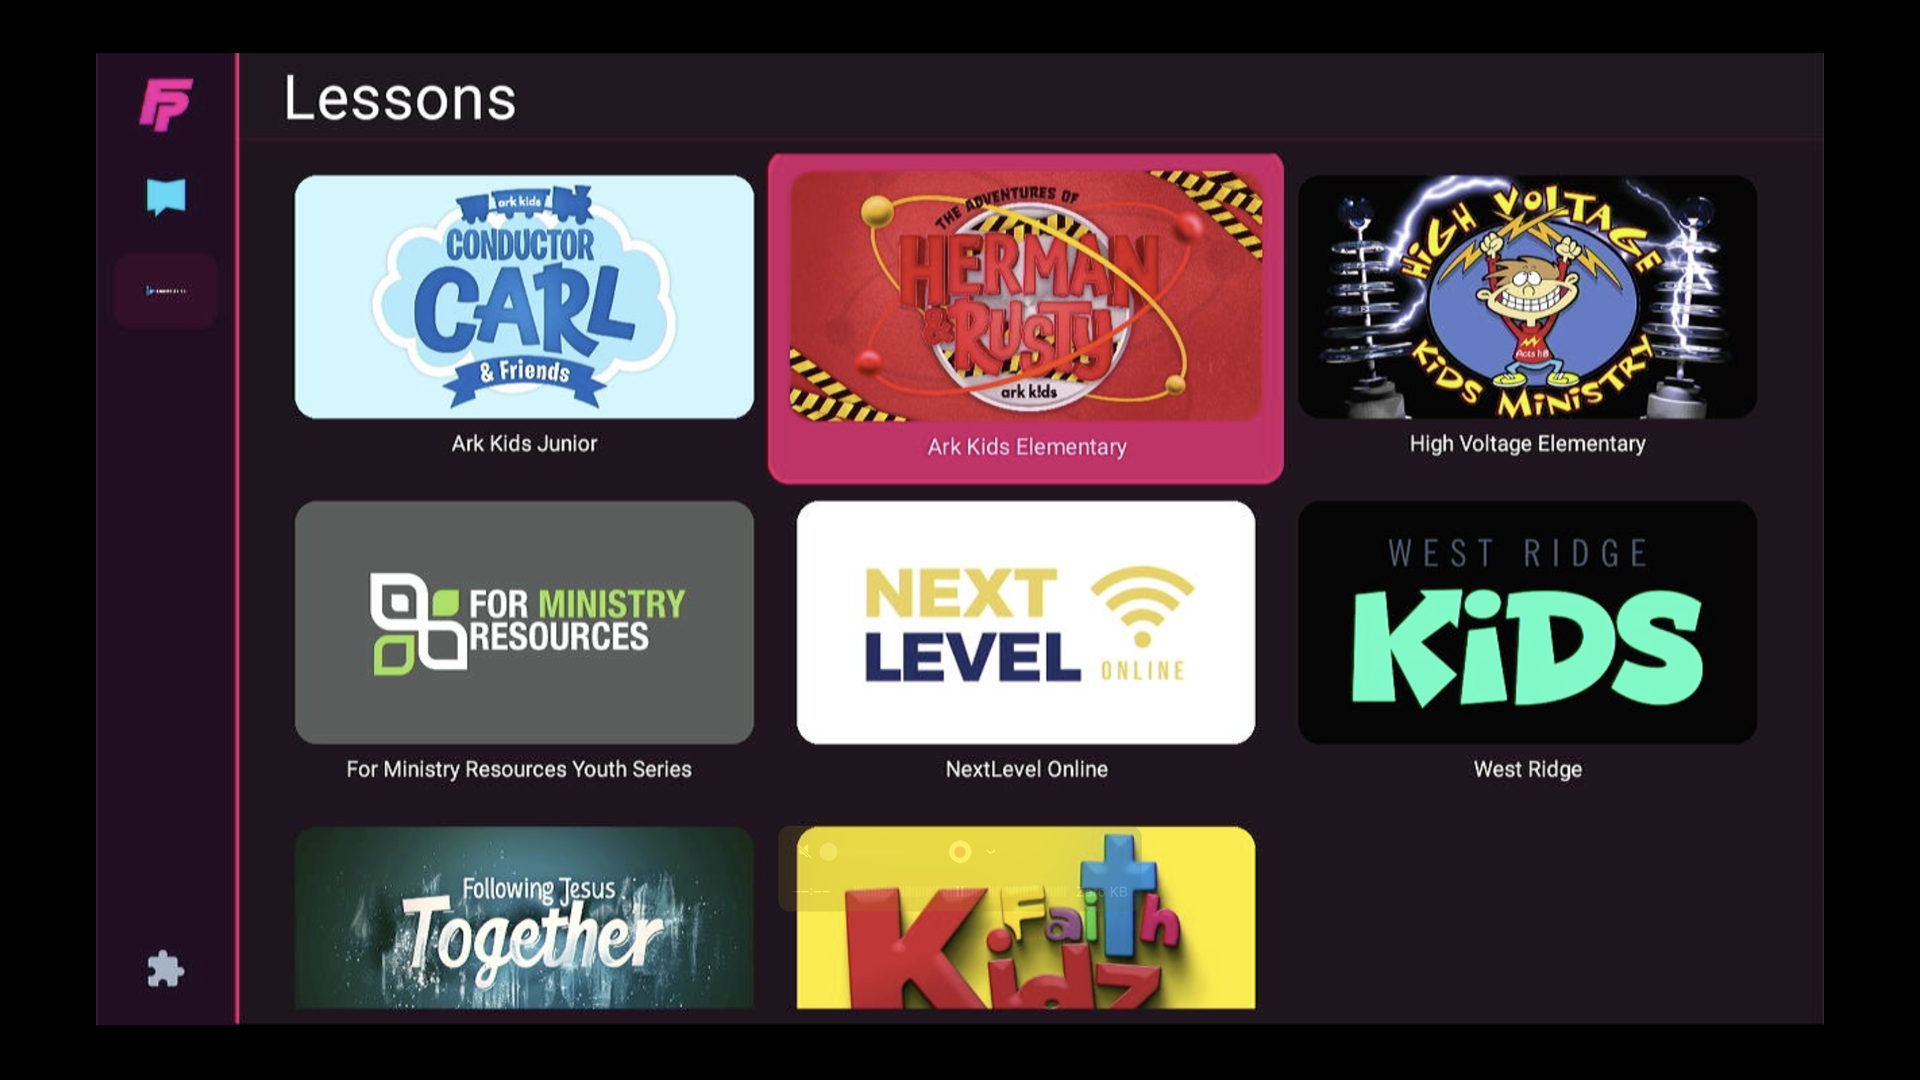
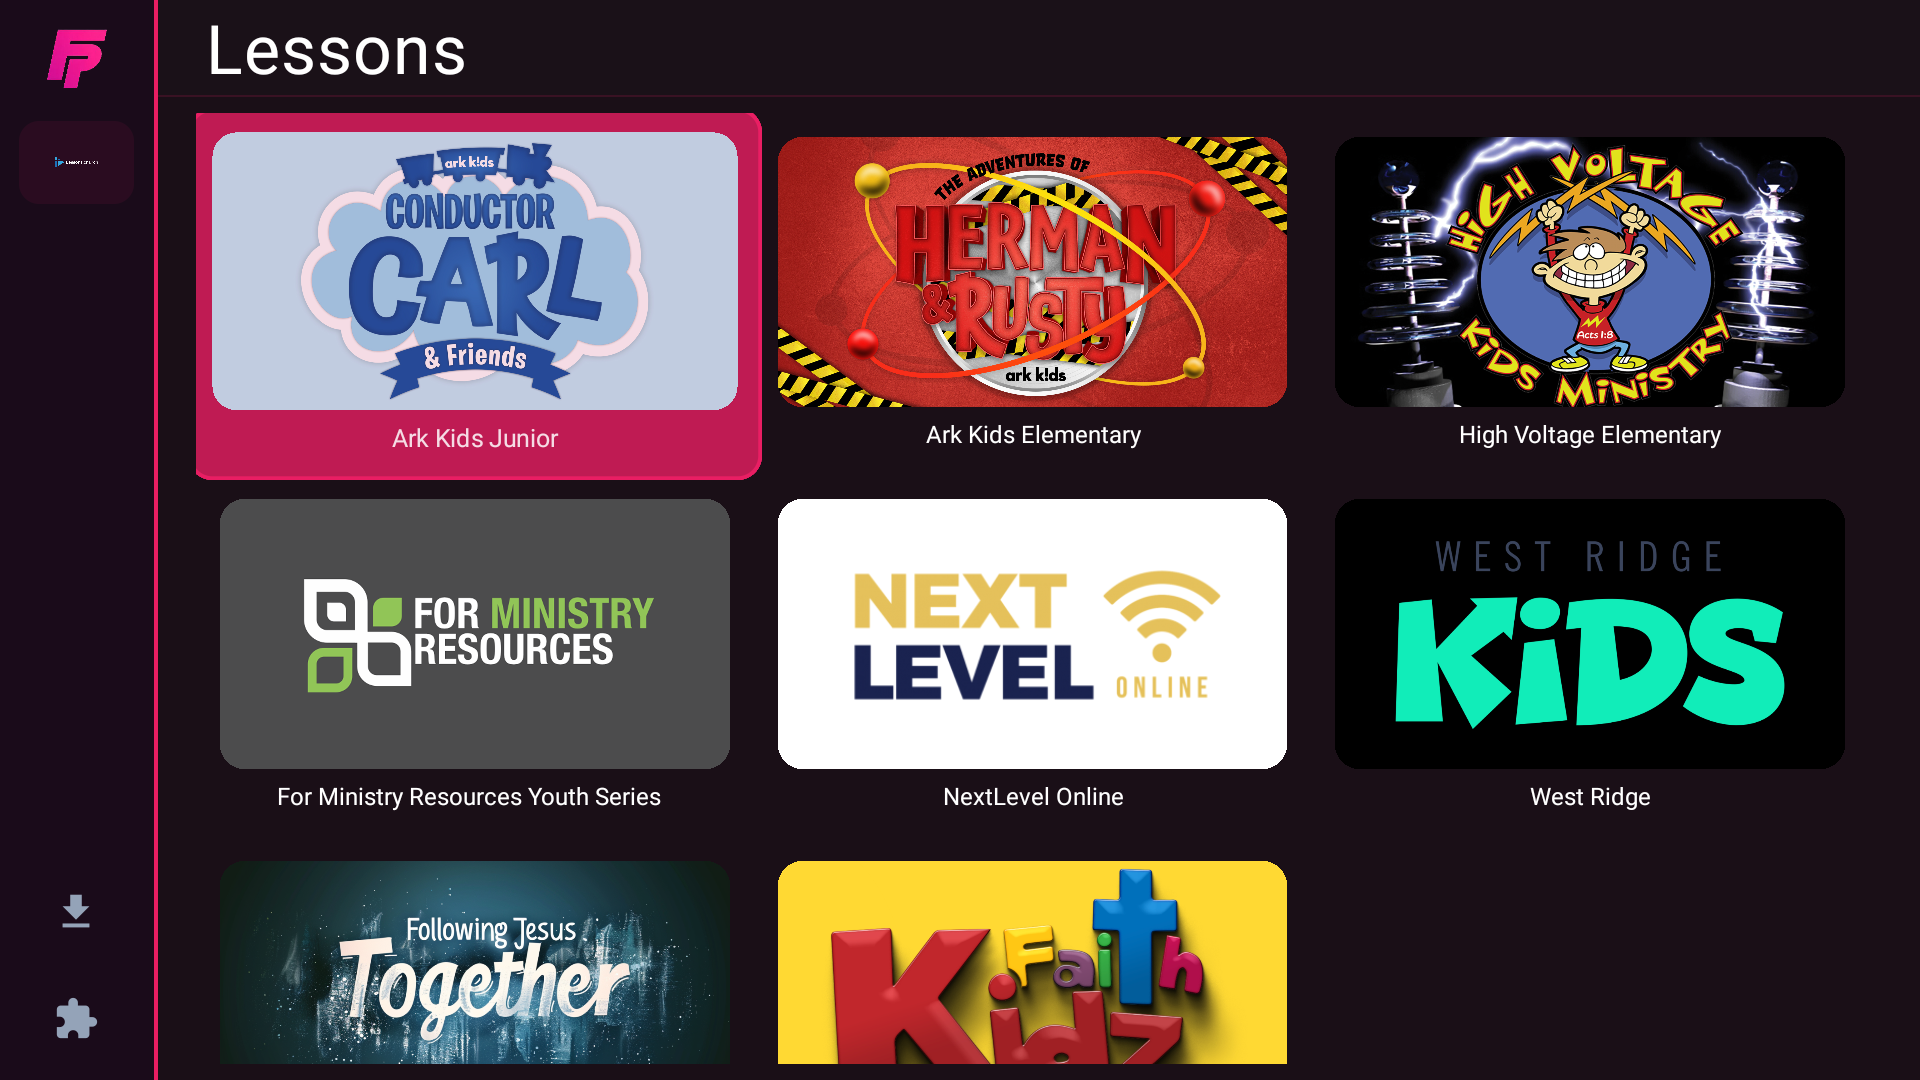
Update ark-freeplay guide with new video and screenshots
- New YouTube video ID (B66xhbtyoNQ) with corrected slide order
- Updated steps to show Lessons.church library + Junior + Elementary flow
- Updated 3.png, 6.png, 7.png screenshots

diff --git a/src/pages/guides/ark-freeplay.tsx b/src/pages/guides/ark-freeplay.tsx
@@ -3,7 +3,7 @@ import { useState } from 'react';
 import Layout from '@theme/Layout';
 import styles from './freeplay-quickstart.module.css';
 
-const VIDEO_ID = 'qobCxb62Yxk';
+const VIDEO_ID = 'B66xhbtyoNQ';
 const SS = '/img/guides/ark/';
 
 type Step = { text: string; img?: string };
@@ -13,9 +13,9 @@ const steps: Step[] = [
   { text: 'Select FreePlay and tap Download — it\'s completely free, no subscription or trial.', img: SS + '2.png' },
   { text: 'FreePlay opens to the Content Providers screen. Select Lessons.church.', img: SS + '3.png' },
   { text: 'You\'ll see two options — Lessons and Add-Ons. Add-Ons are open source videos you can use alongside your lessons. For now, select Lessons.', img: SS + '4.png' },
-  { text: 'Ark Kids Junior — featuring Conductor Carl — is designed for preschool.', img: SS + '5.png' },
-  { text: 'Ark Kids Elementary — Herman and Rusty — is for Kindergarten through 5th grade. Both cover the same Bible lesson each week, filmed completely differently for their age group. Select the one that fits your classroom.', img: SS + '6.png' },
-  { text: 'Lessons.church has a growing library of free curriculum from multiple providers. Select Ark Kids Elementary or Junior to browse Ark Curriculum.', img: SS + '7.png' },
+  { text: 'Lessons.church offers free curriculum from multiple providers. Select Ark Kids Elementary or Junior to find Ark Curriculum.', img: SS + '6.png' },
+  { text: 'Ark Kids Junior — featuring Conductor Carl — is designed for preschool.', img: SS + '6.png' },
+  { text: 'Ark Kids Elementary — Herman and Rusty — is for Kindergarten through 5th grade. Both cover the same Bible lesson each week, filmed completely differently for their age group. Select the one that fits your classroom.', img: SS + '7.png' },
   { text: 'Inside you\'ll find every series available. Select the one your church is currently teaching.', img: SS + '8.png' },
   { text: 'Select your series and you\'ll see every weekly lesson inside.', img: SS + '9.png' },
   { text: 'Each lesson has multiple format options — Large Group Full Program, Midweek/Classroom, and Large Group Abbreviated. Pick the one that fits your class.', img: SS + '10.png' },
